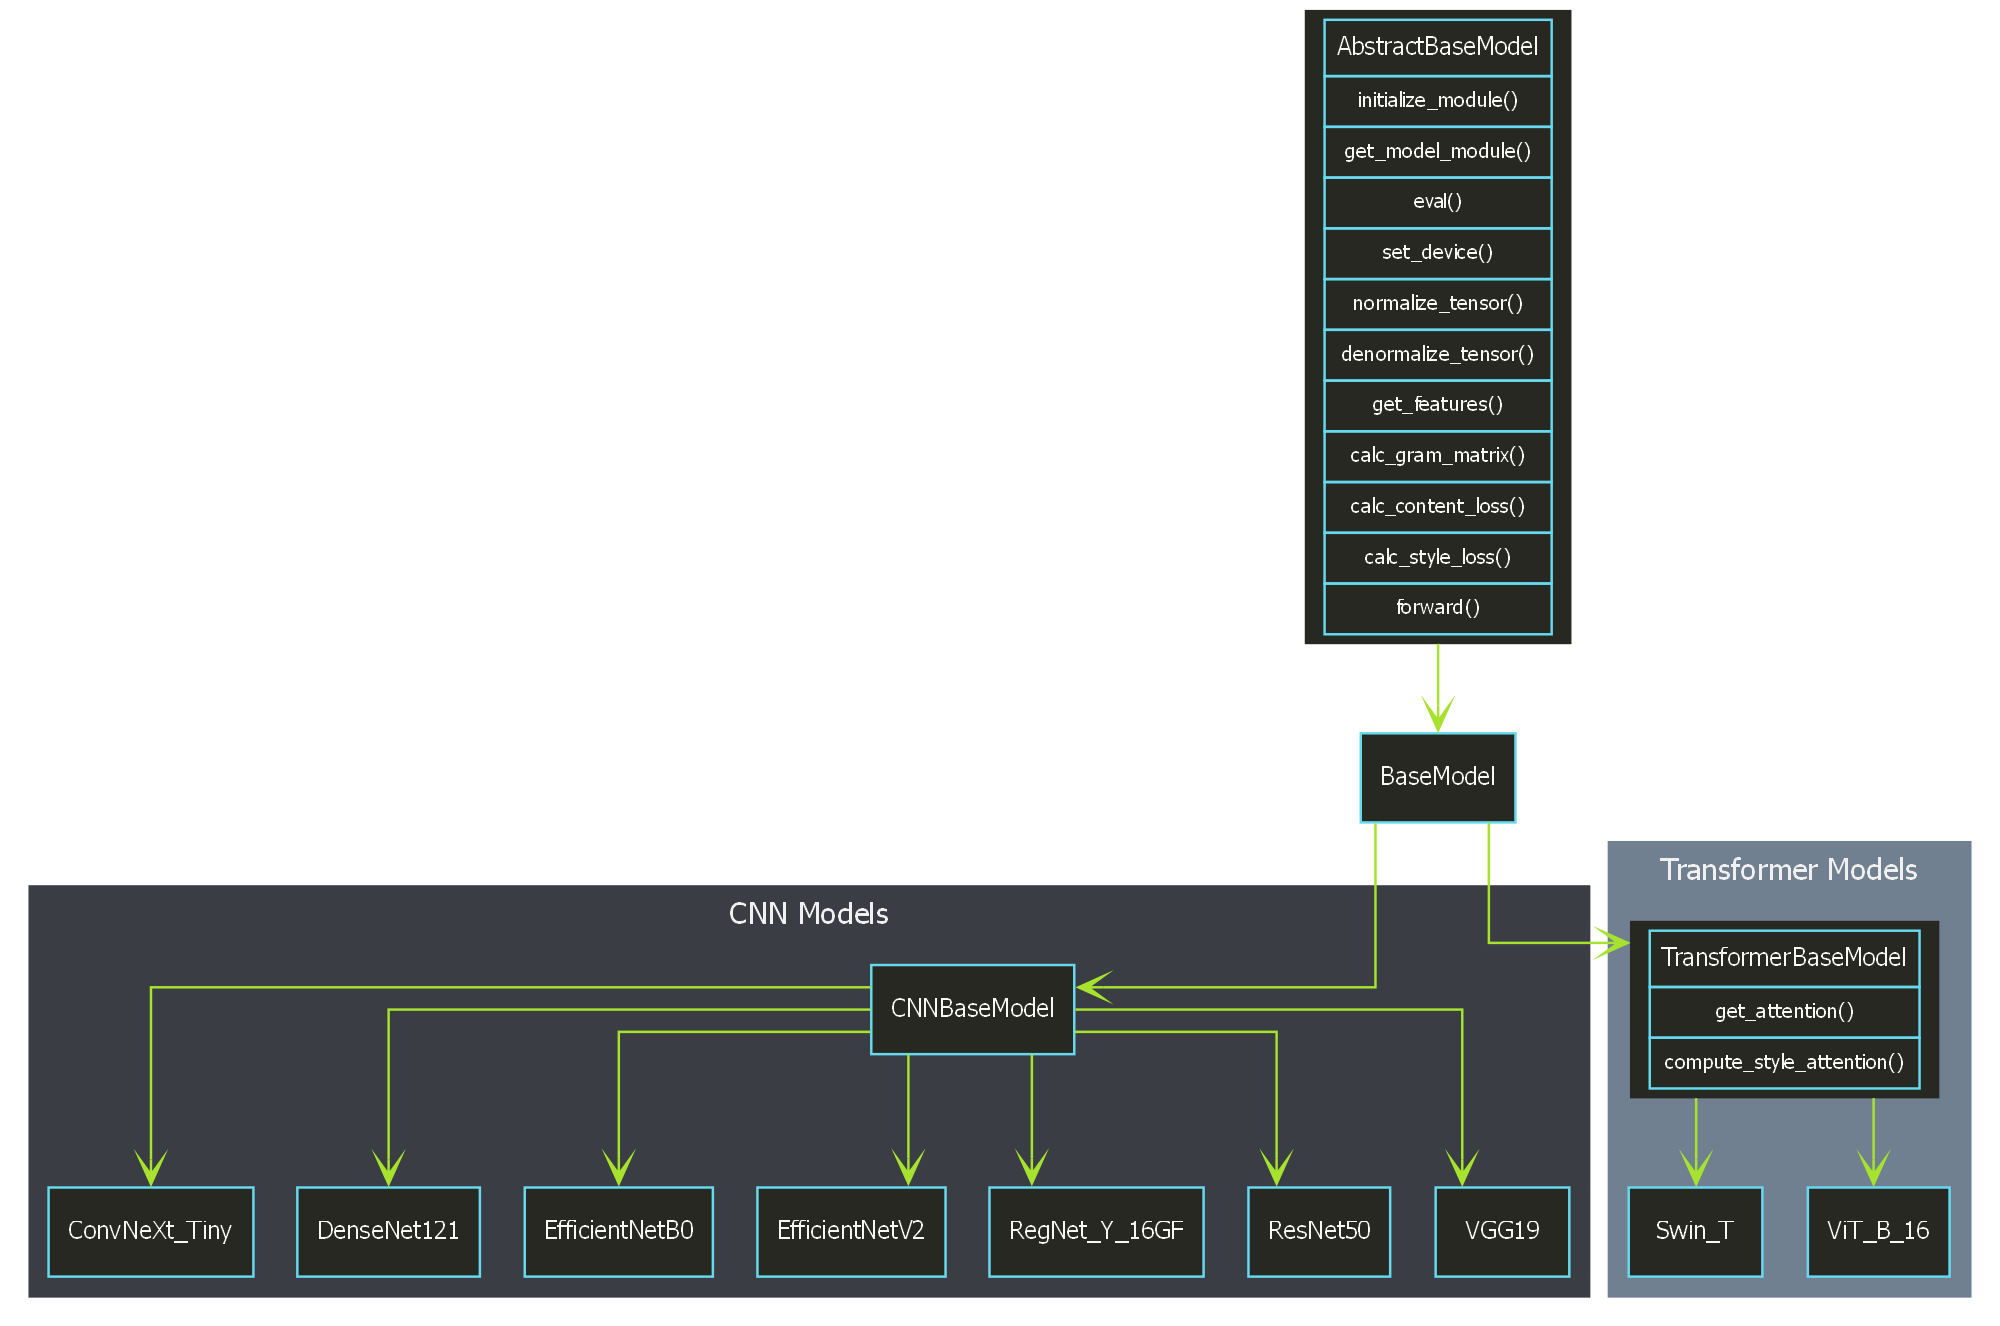
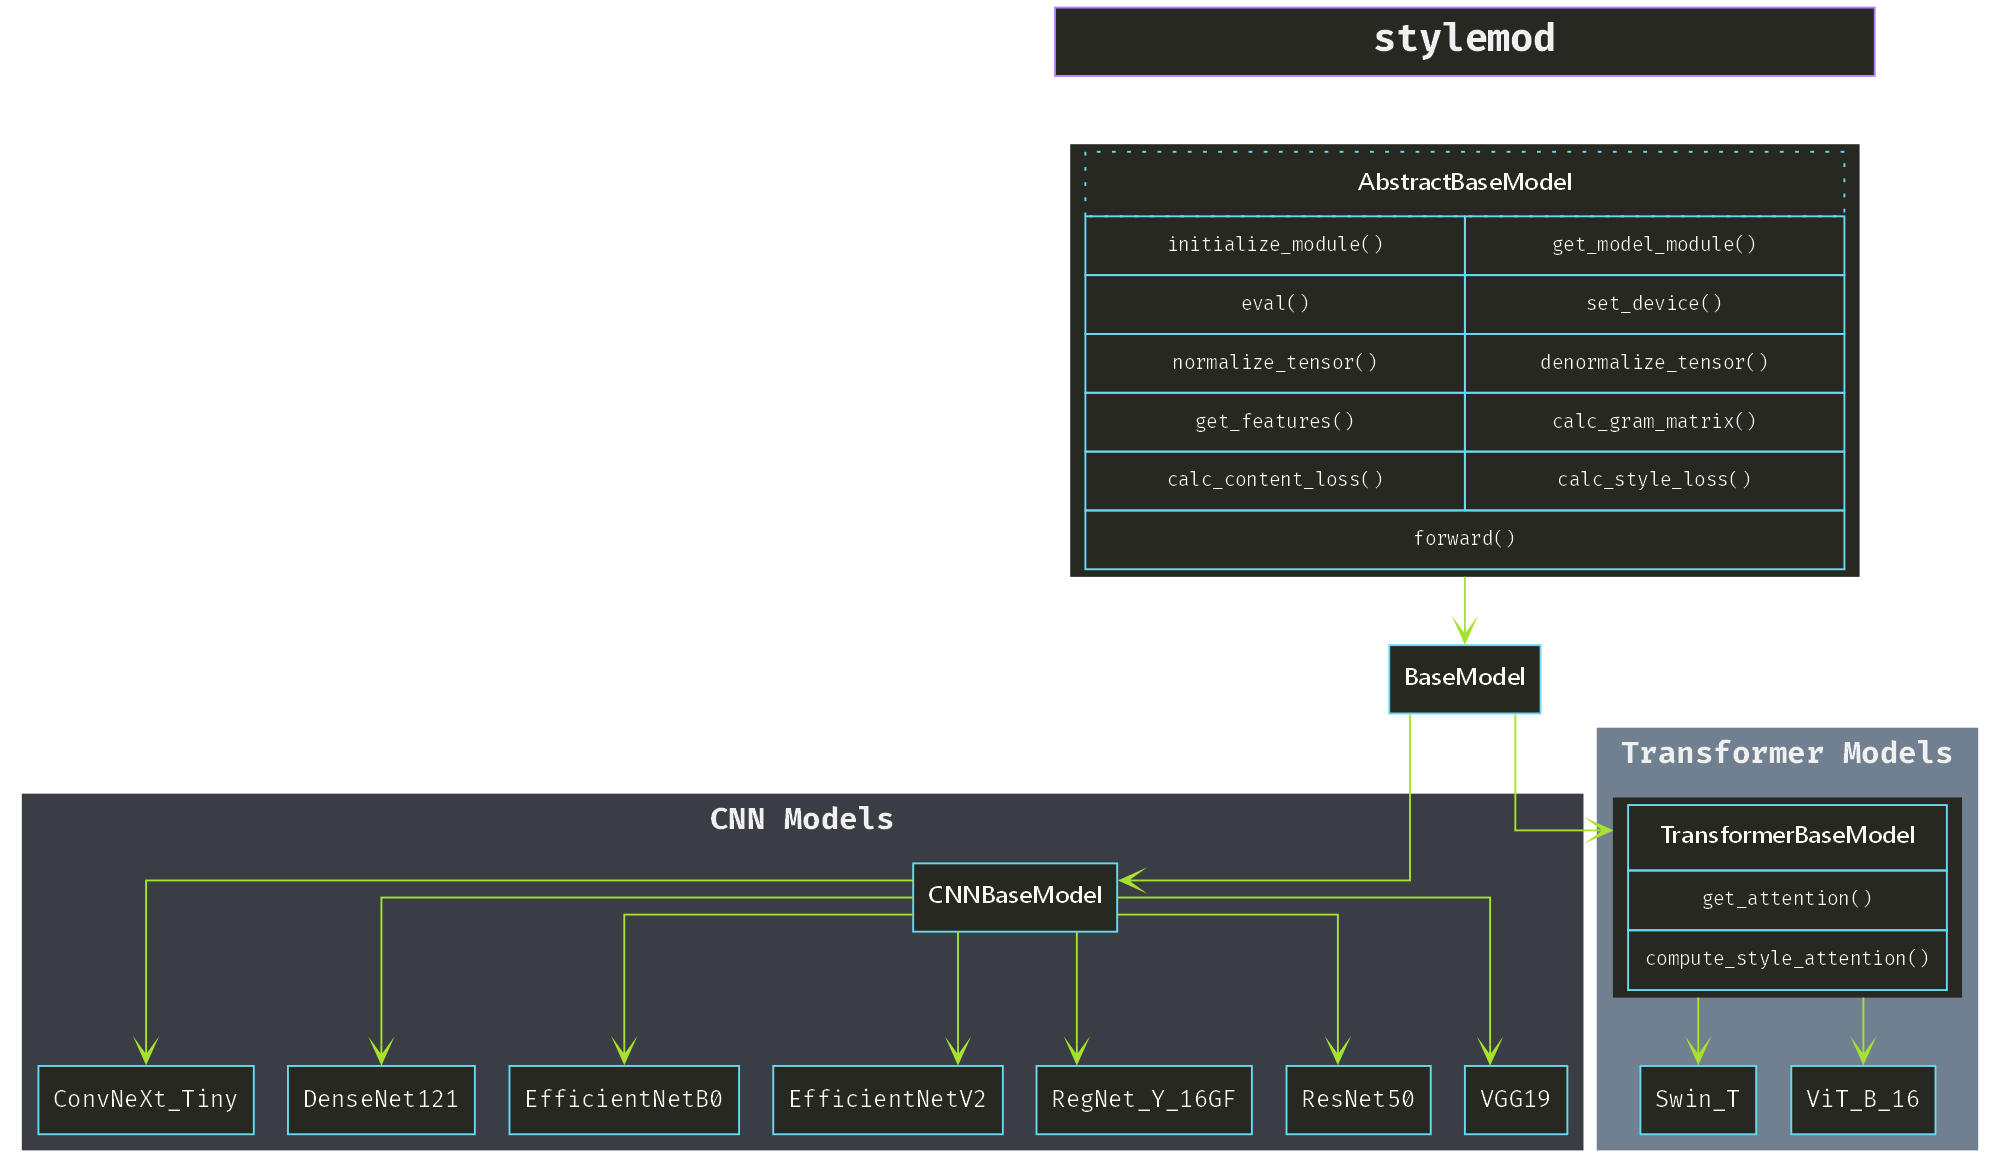
improve hierarchy visualization, save/include dot file

Changed region(s): [[0.0, 0.0, 0.992, 0.9829]]

diff --git a/stylemod/stylemod.py b/stylemod/stylemod.py
@@ -129,7 +129,8 @@ def style_transfer(
 
 
 def generate_class_hierarchy(show_funcs: bool = False) -> Digraph:
-    dg = Digraph(comment="Class Hierarchy")
+    title = "stylemod"
+    dg = Digraph(comment=title, graph_attr={"size": "3.25!"})
 
     color_scheme = Style.MOLOKAI.value
     tr_font_size = color_scheme.custom.get(
@@ -140,38 +141,71 @@ def generate_class_hierarchy(show_funcs: bool = False) -> Digraph:
         "slate_gray", "gray")
     sg_font_color = color_scheme.custom.get(
         "white", "white")
+    semibold_font = color_scheme.custom.get(
+        "semibold_font", color_scheme.font)
+    title_font_size = color_scheme.custom.get(
+        "title_font_size", "24")
+    purple = color_scheme.custom.get(
+        "purple", "purple")
+
+    dg.node(
+        "title",
+        label=f'''<<font face="{color_scheme.font}" point-size="{title_font_size}" color="{sg_font_color}"><b>{title}</b></font>>''',
+        shape="box",
+        style="filled",
+        color=purple,
+        fillcolor=color_scheme.node_fill,
+        width="6.0" if show_funcs else "2.25",
+        fixedsize="true",
+    )
 
     Graphviz.stylize(dg, style=color_scheme)
 
     # generic abstractions
     if show_funcs:
+        td_width = 200
         dg.node("ABM", label=(
             f'''<
-            <table border="0" cellborder="1" cellspacing="0" cellpadding="4">
+            <table border="0" cellborder="1" cellspacing="0" cellpadding="8" width="{td_width * 2}">
             <tr>
-                <td>AbstractBaseModel</td>
+            <td colspan="2" align="center" width="{td_width * 2}" style="dotted"><font face="{semibold_font}">AbstractBaseModel</font></td>
             </tr>
-            <tr><td align="center"><font point-size="{tr_font_size}">initialize_module()</font></td></tr>
-            <tr><td align="center"><font point-size="{tr_font_size}">get_model_module()</font></td></tr>
-            <tr><td align="center"><font point-size="{tr_font_size}">eval()</font></td></tr>
-            <tr><td align="center"><font point-size="{tr_font_size}">set_device()</font></td></tr>
-            <tr><td align="center"><font point-size="{tr_font_size}">normalize_tensor()</font></td></tr>
-            <tr><td align="center"><font point-size="{tr_font_size}">denormalize_tensor()</font></td></tr>
-            <tr><td align="center"><font point-size="{tr_font_size}">get_features()</font></td></tr>
-            <tr><td align="center"><font point-size="{tr_font_size}">calc_gram_matrix()</font></td></tr>
-            <tr><td align="center"><font point-size="{tr_font_size}">calc_content_loss()</font></td></tr>
-            <tr><td align="center"><font point-size="{tr_font_size}">calc_style_loss()</font></td></tr>
-            <tr><td align="center"><font point-size="{tr_font_size}">forward()</font></td></tr>
+            <tr>
+            <td align="center" width="{td_width}"><font point-size="{tr_font_size}">initialize_module()</font></td>
+            <td align="center" width="{td_width}"><font point-size="{tr_font_size}">get_model_module()</font></td>
+            </tr>
+            <tr>
+            <td align="center" width="{td_width}"><font point-size="{tr_font_size}">eval()</font></td>
+            <td align="center" width="{td_width}"><font point-size="{tr_font_size}">set_device()</font></td>
+            </tr>
+            <tr>
+            <td align="center" width="{td_width}"><font point-size="{tr_font_size}">normalize_tensor()</font></td>
+            <td align="center" width="{td_width}"><font point-size="{tr_font_size}">denormalize_tensor()</font></td>
+            </tr>
+            <tr>
+            <td align="center" width="{td_width}"><font point-size="{tr_font_size}">get_features()</font></td>
+            <td align="center" width="{td_width}"><font point-size="{tr_font_size}">calc_gram_matrix()</font></td>
+            </tr>
+            <tr>
+            <td align="center" width="{td_width}"><font point-size="{tr_font_size}">calc_content_loss()</font></td>
+            <td align="center" width="{td_width}"><font point-size="{tr_font_size}">calc_style_loss()</font></td>
+            </tr>
+            <tr>
+            <td align="center" colspan="2" width="{td_width * 2}"><font point-size="{tr_font_size}">forward()</font></td>
+            </tr>
             </table>>'''
         ), shape="plaintext")
     else:
-        dg.node("ABM", "AbstractBaseModel")
-    dg.node("BM", "BaseModel")
+        dg.node(
+            "ABM", label=f'''<<font face="{semibold_font}">AbstractBaseModel</font>>''')
+    dg.node("BM", label=f'''<<font face="{semibold_font}">BaseModel</font>>''')
 
-    cnn_models = []
-    transformer_models = []
+    # connect title to top node, invisible, for positioning
+    dg.edge("title", "ABM", style="invis")
 
     # populate lists of cnn/transformer models for subgraphs
+    cnn_models = []
+    transformer_models = []
     pkg = "stylemod.models"
     for _, module_name, _ in pkgutil.iter_modules(importlib.import_module(pkg).__path__):
         module = importlib.import_module(f"{pkg}.{module_name}")
@@ -185,8 +219,10 @@ def generate_class_hierarchy(show_funcs: bool = False) -> Digraph:
 
     # subgraph for cnn based models
     with dg.subgraph(name="cluster_CNN") as cnn:  # type: ignore
-        cnn.attr(label="CNN Models", color=sg_color_1, fontcolor=sg_font_color)
-        cnn.node("CBM", "CNNBaseModel")
+        cnn.attr(label=f'''<<b>CNN Models</b>>''',
+                 color=sg_color_1, fontcolor=sg_font_color)
+        cnn.node(
+            "CBM", label=f'''<<font face="{semibold_font}">CNNBaseModel</font>>''')
 
         for model_name in cnn_models:
             cnn.node(model_name, model_name)
@@ -194,22 +230,22 @@ def generate_class_hierarchy(show_funcs: bool = False) -> Digraph:
 
     # subgraph for transformer based models
     with dg.subgraph(name="cluster_Transformer") as transformer:  # type: ignore
-        transformer.attr(label="Transformer Models",
+        transformer.attr(label=f'''<<b>Transformer Models</b>>''',
                          color=sg_color_2, fontcolor=sg_font_color)
 
         if show_funcs:
+            td_width = 30
             transformer.node("TBM", label=(
                 f'''<
-                <table border="0" cellborder="1" cellspacing="0" cellpadding="4">
-                <tr>
-                    <td>TransformerBaseModel</td>
-                </tr>
+                <table border="0" cellborder="1" cellspacing="0" cellpadding="8">
+                <tr><td><font face="{semibold_font}">TransformerBaseModel</font></td></tr>
                 <tr><td align="center"><font point-size="{tr_font_size}">get_attention()</font></td></tr>
                 <tr><td align="center"><font point-size="{tr_font_size}">compute_style_attention()</font></td></tr>
                 </table>>'''
             ), shape="plaintext")
         else:
-            transformer.node("TBM", "TransformerBaseModel")
+            transformer.node(
+                "TBM", label=f'''<<font face="{semibold_font}">TransformerBaseModel</font>>''')
 
         for model_name in transformer_models:
             transformer.node(model_name, model_name)

diff --git a/stylemod/core/gv.py b/stylemod/core/gv.py
@@ -11,6 +11,9 @@ class StyleType(NamedTuple):
     node_font: str
     edge_color: str
     font: str
+    font_sz_graph: str = "12"
+    font_sz_node: str = "10"
+    font_sz_edge: str = "10"
     background: str = "transparent"
     rankdir: str = "TB"
     splines: str = "true"
@@ -24,10 +27,16 @@ class Style(Enum):
         node_border="#66D9EF",
         node_font="#F8F8F2",
         edge_color="#A6E22E",
-        font="Tahoma",
+        font="Fira Code, Segoe UI, Helvetica, Arial",
+        font_sz_graph="16",
+        font_sz_node="12",
+        font_sz_edge="12",
         splines="ortho",
         custom={
-            "tr_font_size": "8",
+            "semibold_font": "Fira Code Medium, Segoe UI Semibold, Helvetica Neue Medium, Arial Semibold",
+            "title_font_size": "20",
+            "tr_font_size": "10",
+            "purple": "#AE81FF",
             "soft_blue": "#3A3D43",
             "slate_gray": "#708090",
             "white": "#F0F0F0"
@@ -54,7 +63,7 @@ class Graphviz:
             else:
                 raise OSError(
                     f"Unsupported operating system detected: {system}.\n"
-                    "Please manually install Graphviz and ensure the 'dot' executable is available in your system's PATH."
+                    "Please manually install Graphviz and ensure the dot executable is available in your systems PATH."
                 )
 
     @staticmethod
@@ -68,9 +77,9 @@ class Graphviz:
     @staticmethod
     def install_macos():
         try:
-            subprocess.run(['brew', '--version'], check=True,
+            subprocess.run(["brew", "--version"], check=True,
                            stdout=subprocess.PIPE, stderr=subprocess.PIPE)
-            subprocess.run(['brew', 'install', 'graphviz'], check=True)
+            subprocess.run(["brew", "install", "graphviz"], check=True)
             print("Graphviz installed successfully via Homebrew.")
         except (subprocess.CalledProcessError, FileNotFoundError):
             print("Homebrew is not installed. Please install Homebrew and try again.")
@@ -81,8 +90,8 @@ class Graphviz:
         """Install Graphviz on Linux using apt-get or yum depending on the distribution."""
         try:
             # try apt-get (debian/ubuntu)
-            subprocess.run(['sudo', 'apt-get', 'install',
-                           '-y', 'graphviz'], check=True)
+            subprocess.run(["sudo", "apt-get", "install",
+                           "-y", "graphviz"], check=True)
             print("Graphviz installed successfully via apt-get.")
         except subprocess.CalledProcessError:
             try:
@@ -92,14 +101,14 @@ class Graphviz:
                 print("Graphviz installed successfully via yum.")
             except subprocess.CalledProcessError:
                 print(
-                    "Please manually install Graphviz using your system's package manager.")
+                    "Please manually install Graphviz using your systems package manager.")
 
     @staticmethod
     def stylize(dg: Digraph, style: StyleType = Style.MOLOKAI.value):
         dg.attr(rankdir=style.rankdir,
                 size="10",
                 fontname=style.font,
-                fontsize="12",
+                fontsize=style.font_sz_graph,
                 style="filled",
                 bgcolor=style.background,
                 color=style.node_font,
@@ -110,7 +119,7 @@ class Graphviz:
                 style="filled",
                 fillcolor=style.node_fill,
                 fontname=style.font,
-                fontsize="10",
+                fontsize=style.font_sz_node,
                 color=style.node_border,
                 fontcolor=style.node_font)
 
@@ -119,7 +128,7 @@ class Graphviz:
                 style="solid",
                 arrowhead="open",
                 fontname=style.font,
-                fontsize="10")
+                fontsize=style.font_sz_edge)
 
 
 def noviz(cls):

diff --git a/stylemod/cli.py b/stylemod/cli.py
@@ -69,6 +69,8 @@ def class_hierarchy(save: bool, show_funcs: bool, dpi: int):
         path = os.path.join(img_dir, "class_hierarchy.png")
         with open(path, "wb") as f:
             f.write(png)
+        with open("stylemod.dot", "w") as f:
+            f.write(dg.source)
         click.echo(f"Class hierarchy saved as '{path}'.")
 
     image = Image.open(io.BytesIO(png))
